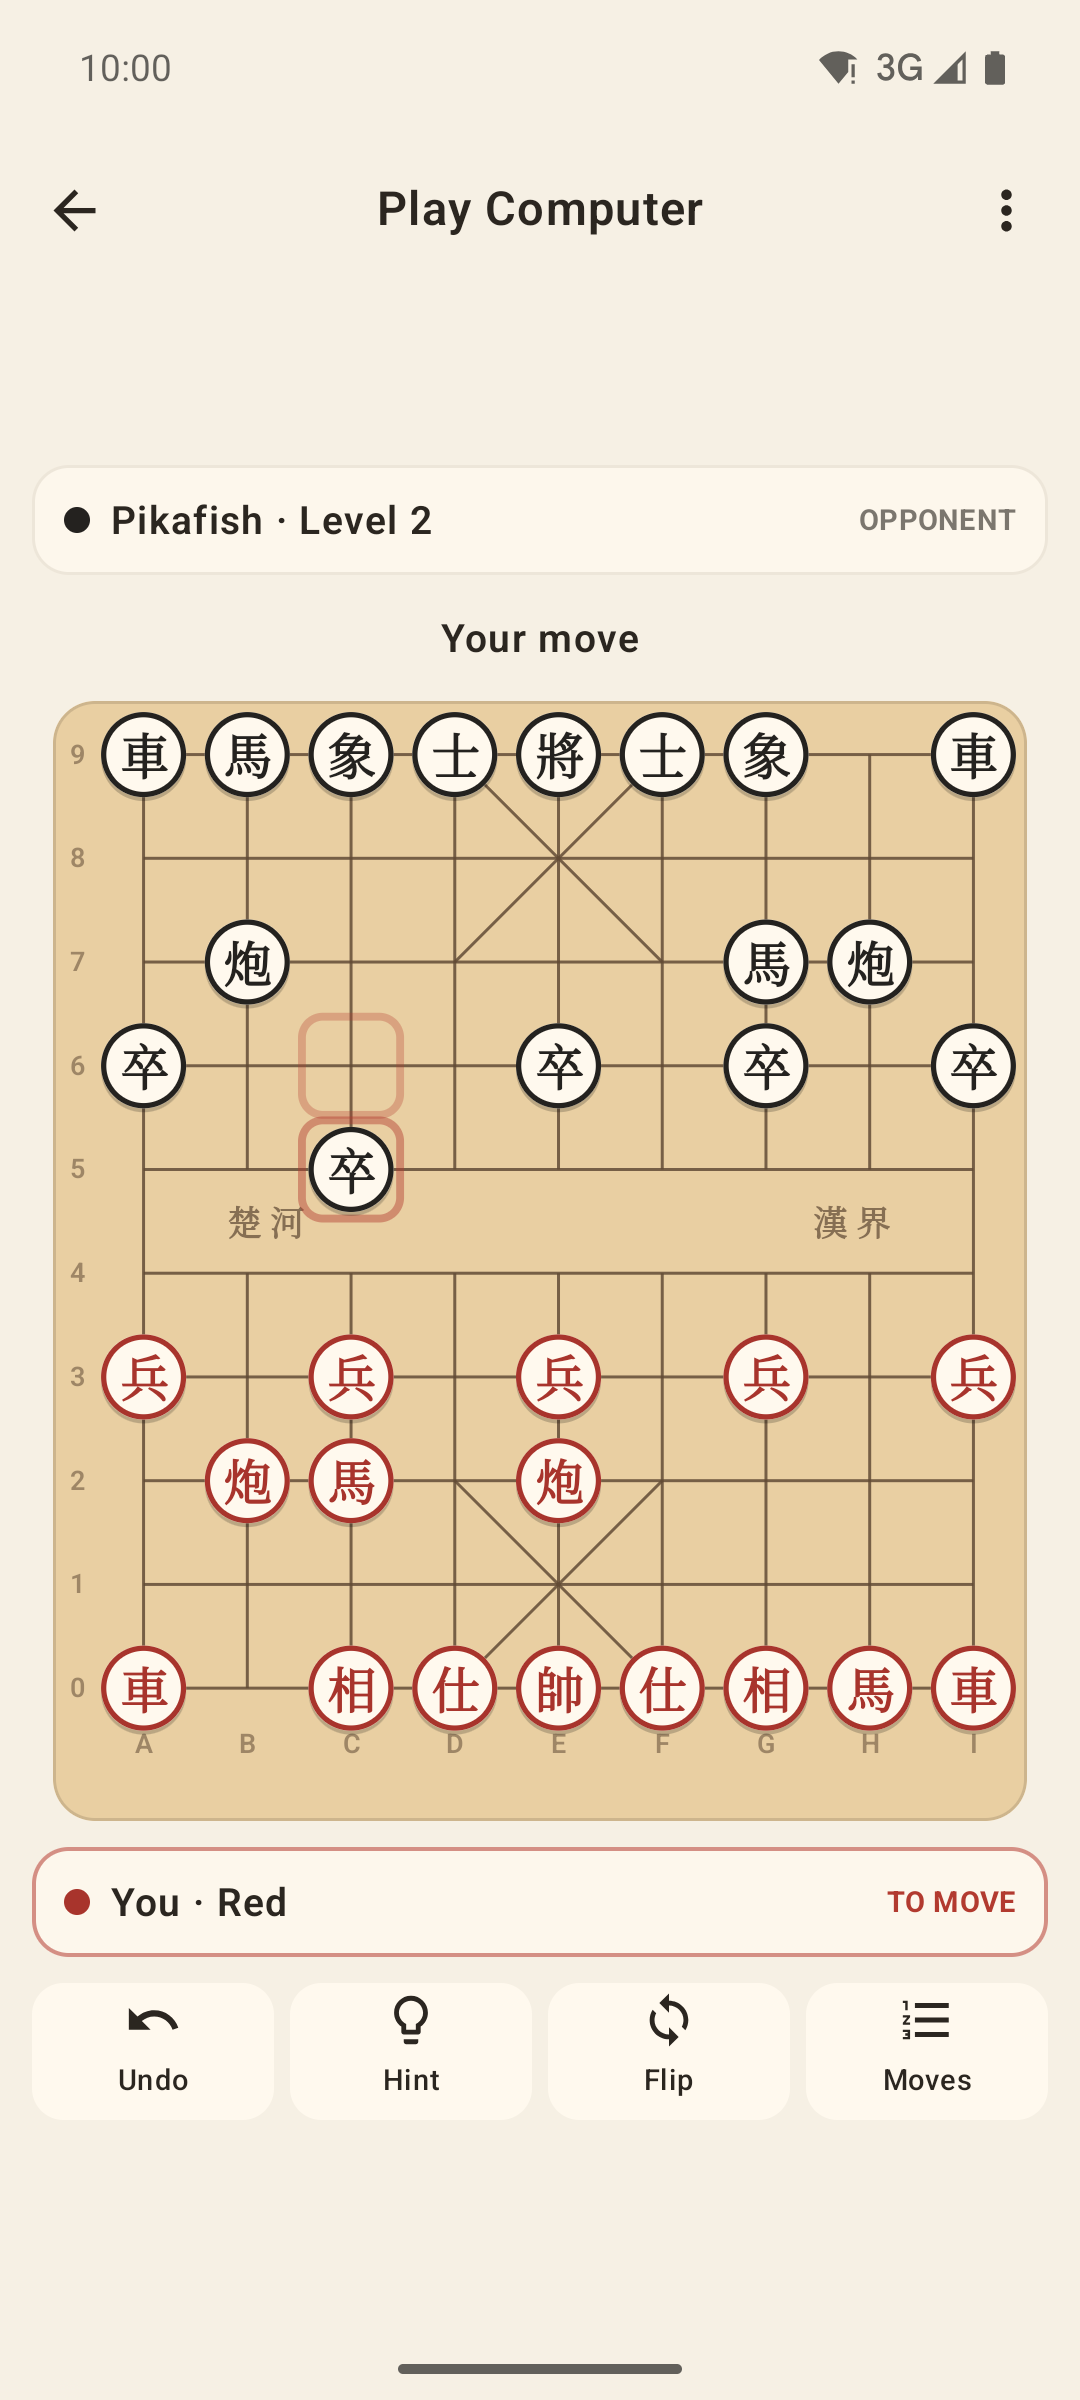
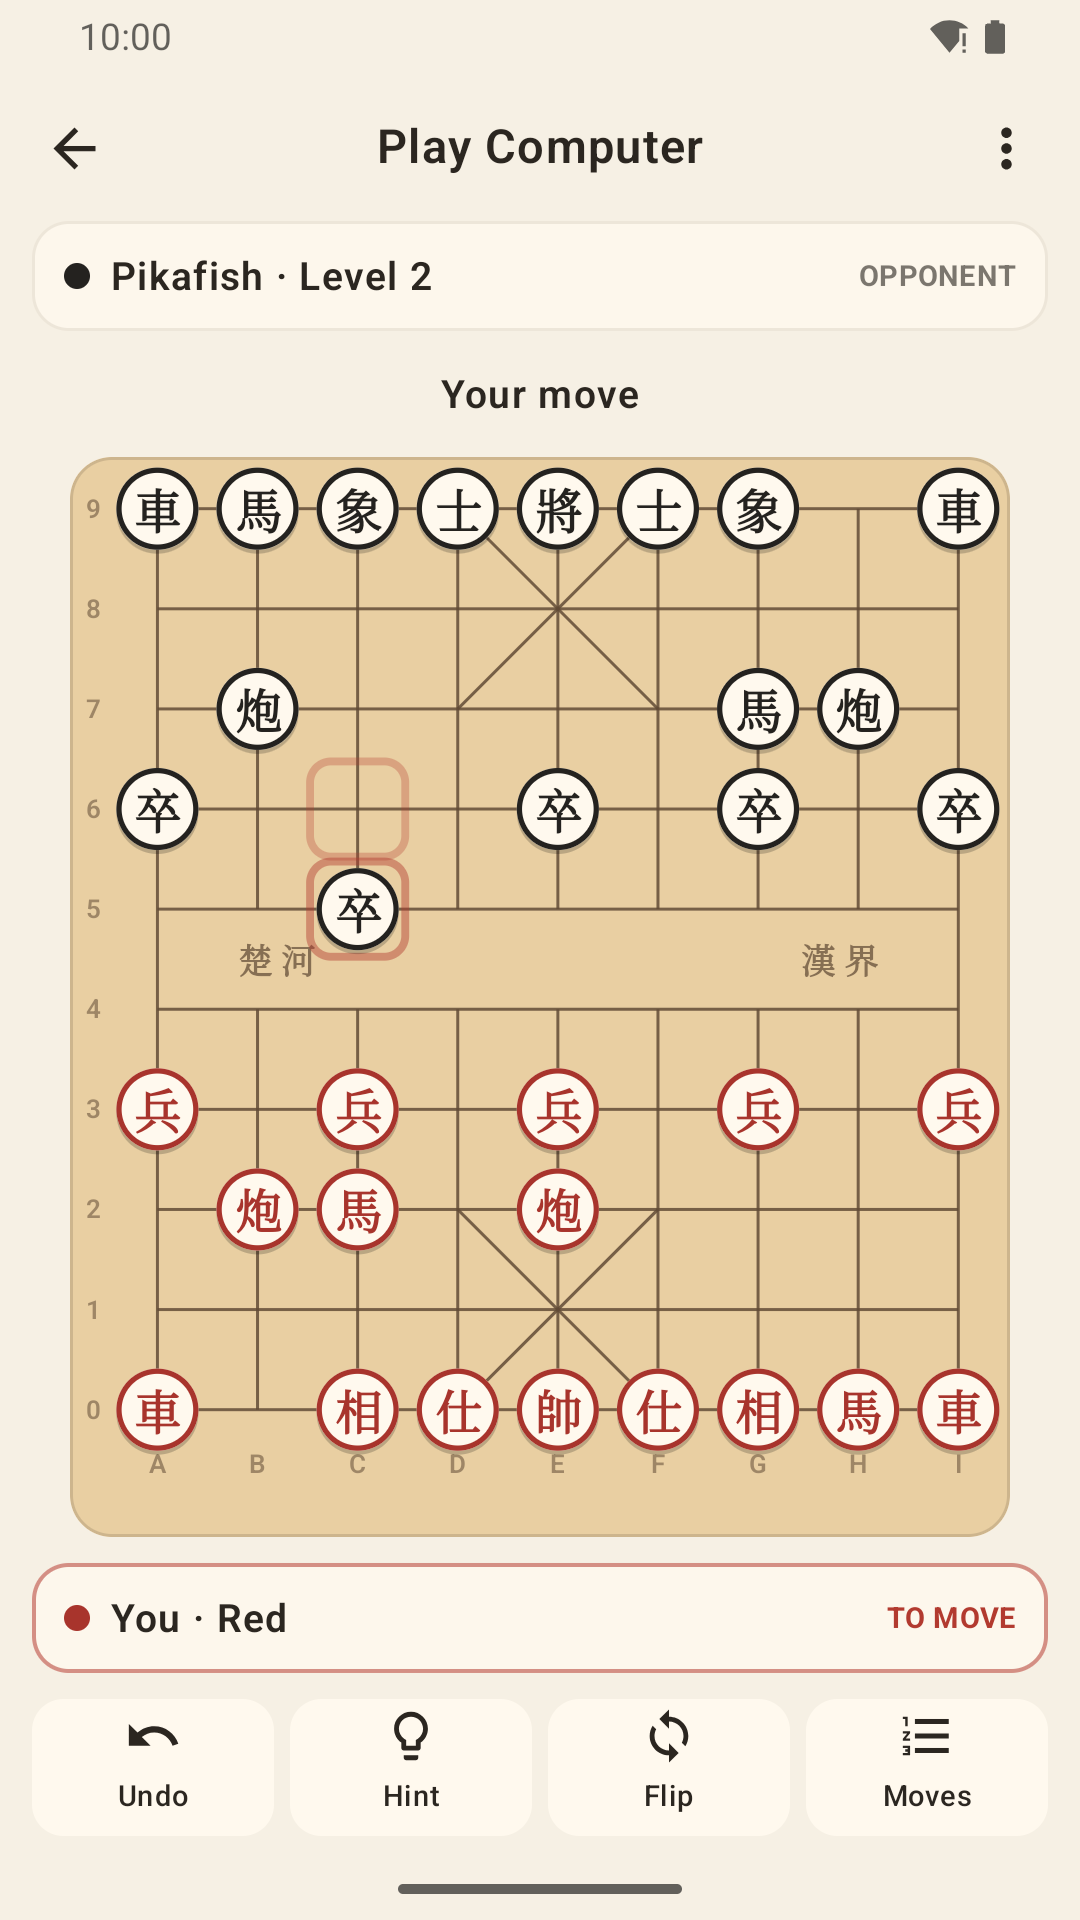
Recapture store screenshots at 9:16 (phone) and 16:9 (tablet) to meet Play's rules

diff --git a/docs/play-store-submission.md b/docs/play-store-submission.md
@@ -42,8 +42,8 @@ First release for Android: play Pikafish offline, two-player mode, 58,000+ games
 | --- | --- | --- |
 | App icon | `docs/play-store/icon-512.png` | 512×512 PNG |
 | Feature graphic | `docs/play-store/feature-graphic.png` | 1024×500 (a crop of the app artwork — replace with marketing art if desired) |
-| Phone screenshots | `docs/play-store/phone/*.png` | 8 captures, 1080×2400, from the real app on an Android 15 emulator |
-| 10-inch tablet screenshots | `docs/play-store/tablet-10in/*.png` | 8 captures, 2560×1600 |
+| Phone screenshots | `docs/play-store/phone/*.png` | 8 captures, 1080×1920 (9:16), from the real app on an Android 15 emulator |
+| 10-inch tablet screenshots | `docs/play-store/tablet-10in/*.png` | 8 captures, 2560×1440 (16:9) |
 
 The screenshots are raw captures (no device frames or captions) taken with demo-mode status bars by `StoreScreenshotsTest`; regenerate them with the command in that file. The launcher icon is the iOS app's artwork as an adaptive icon (with a themed monochrome layer and PNG fallbacks for Android 7).
 
